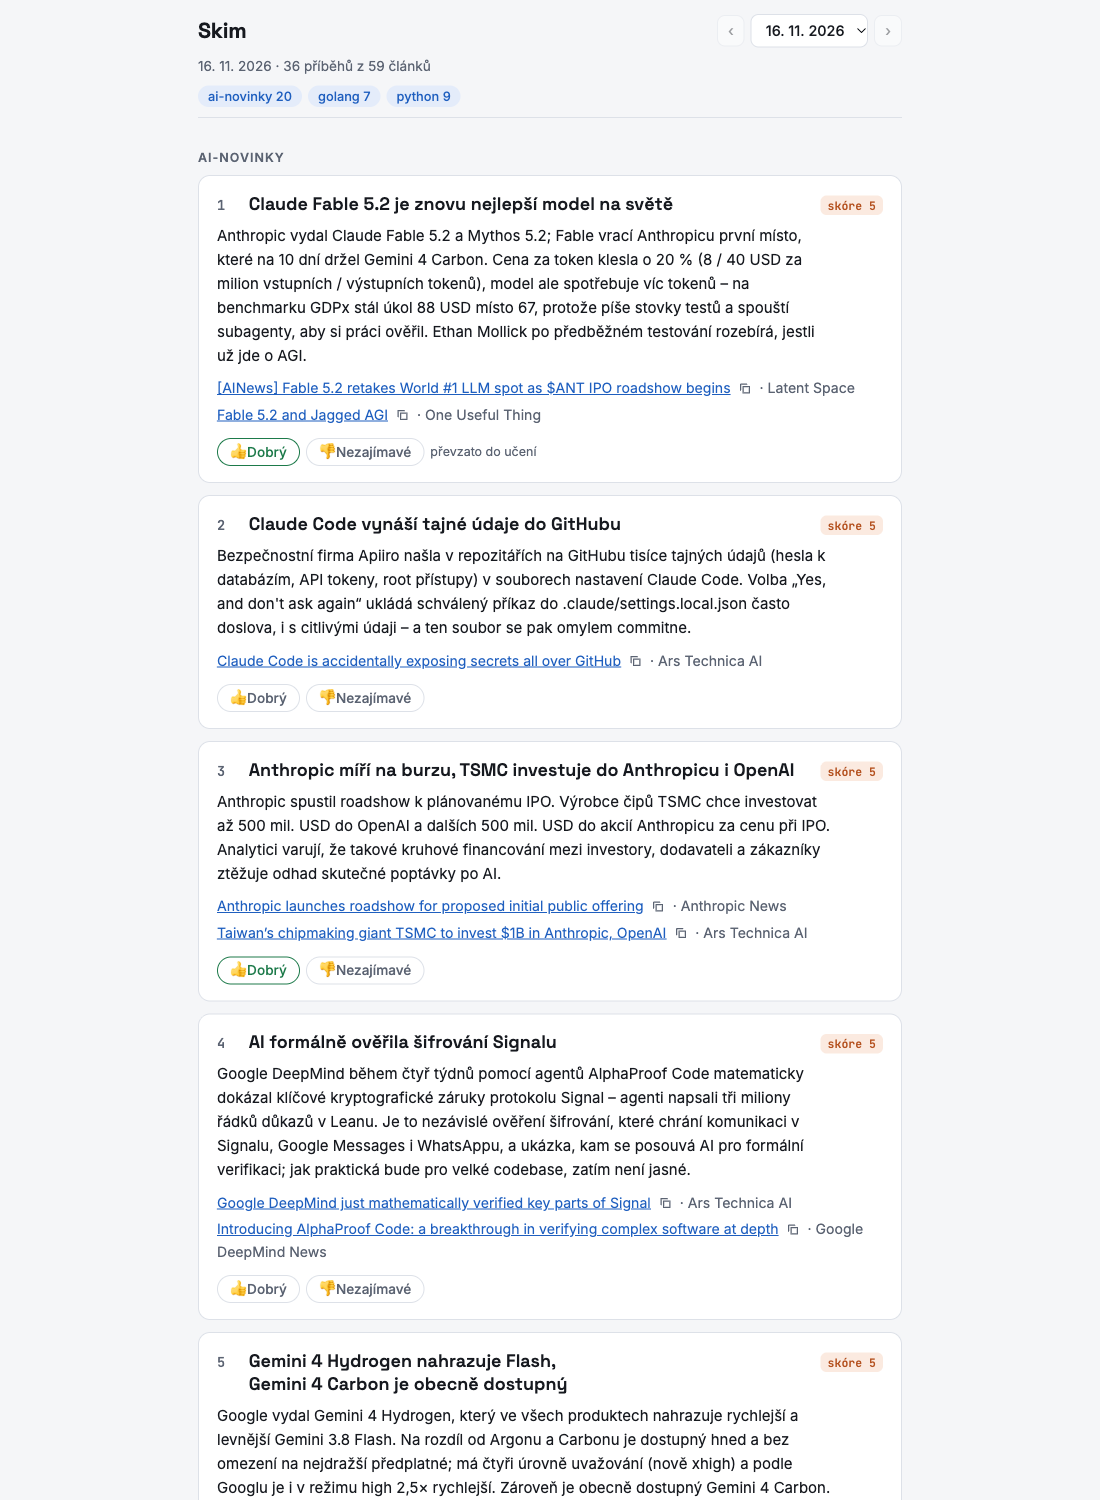
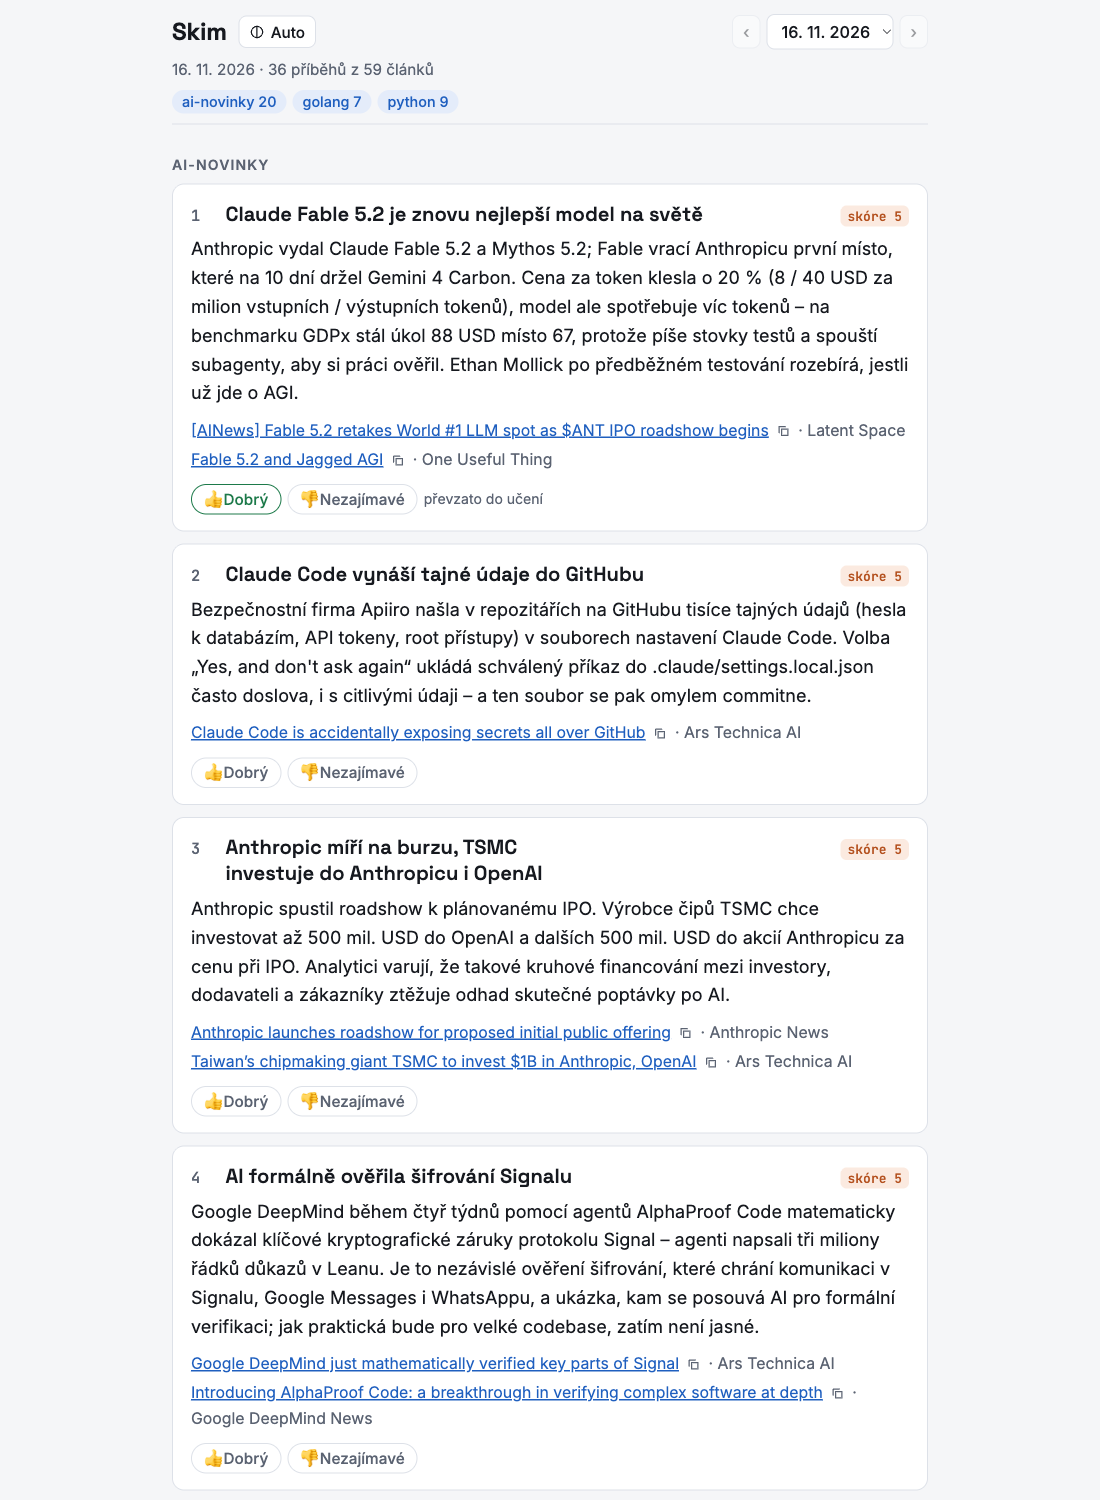
Digest page: larger type and a light/dark/auto theme switch
Base text 18px (was 15px), everything else scaled with it. The theme
button cycles Auto (device setting), Light and Dark and is remembered
per device. README screenshots refreshed.

Changed region(s): [[0.1545, 0.0, 0.8345, 1.0], [0.7109, 0.0, 0.8036, 0.0307], [0.7418, 0.4907, 0.8036, 0.5213]]

diff --git a/web/digest.html b/web/digest.html
@@ -32,14 +32,15 @@
   --up: #5cc78f; --down: #f0857c; color-scheme: dark;
 }
 * { box-sizing: border-box; }
+html { font-size: 18px; }
 body {
-  background: var(--bg); color: var(--fg); font: 15px/1.6 var(--font-body);
+  background: var(--bg); color: var(--fg); font: 1rem/1.6 var(--font-body);
   padding-left: max(16px, env(safe-area-inset-left, 0px));
   padding-right: max(16px, env(safe-area-inset-right, 0px));
   padding-block: 0 48px;
 }
 body::before { content: ""; position: fixed; inset: 0 0 auto; height: env(safe-area-inset-top, 0px); z-index: 10; background: var(--bg); }
-.wrap { max-width: 44rem; margin: 0 auto; }
+.wrap { max-width: 42rem; margin: 0 auto; }
 a { color: var(--accent); }
 a:focus-visible, button:focus-visible, select:focus-visible, summary:focus-visible { outline: 2px solid var(--accent); outline-offset: 2px; border-radius: 4px; }
 
@@ -55,6 +56,11 @@ a:focus-visible, button:focus-visible, select:focus-visible, summary:focus-visib
   border: 1px solid var(--line); border-radius: 8px; padding: 6px 10px; cursor: pointer;
 }
 .day button:disabled { opacity: 0.4; cursor: default; }
+.theme {
+  display: inline-flex; align-items: center; gap: 6px;
+  font: 500 0.85rem var(--font-body); color: var(--fg); background: var(--surface);
+  border: 1px solid var(--line); border-radius: 8px; padding: 6px 10px; cursor: pointer;
+}
 .meta { width: 100%; color: var(--muted); font-size: 0.85rem; }
 .topics { display: flex; flex-wrap: wrap; gap: 6px; width: 100%; }
 .topics a {
@@ -109,6 +115,7 @@ details.more li { overflow-wrap: anywhere; }
 <div class="wrap">
   <div class="bar">
     <h1 class="brand">Skim</h1>
+    <button type="button" class="theme" id="theme" aria-label="Přepnout vzhled"></button>
     <div class="day" id="day-nav" hidden>
       <button type="button" id="prev" aria-label="Starší den">‹</button>
       <select id="day-select" aria-label="Den digestu"></select>
@@ -166,6 +173,23 @@ details.more li { overflow-wrap: anywhere; }
     return s;
   }
   const COPY_ICON = ["M9 9h10v10H9z", "M5 15V5h10"];
+
+  // Theme: auto (follows the device) → light → dark; remembered per device.
+  const THEMES = [
+    { id: "auto", label: "Auto", icon: ["M12 3a9 9 0 1 0 0 18z", "M12 3a9 9 0 0 1 0 18"] },
+    { id: "light", label: "Světlý", icon: ["M12 8a4 4 0 1 0 0 8a4 4 0 1 0 0-8", "M12 2v2", "M12 20v2", "M4.9 4.9l1.4 1.4", "M17.7 17.7l1.4 1.4", "M2 12h2", "M20 12h2", "M4.9 19.1l1.4-1.4", "M17.7 6.3l1.4-1.4"] },
+    { id: "dark", label: "Tmavý", icon: ["M20 14.5A8 8 0 0 1 9.5 4a8 8 0 1 0 10.5 10.5z"] },
+  ];
+  let theme = "auto";
+  try { theme = localStorage.getItem("skim-theme") || "auto"; } catch {}
+  function applyTheme() {
+    const t = THEMES.find((x) => x.id === theme) || THEMES[0];
+    if (t.id === "auto") document.documentElement.removeAttribute("data-theme");
+    else document.documentElement.setAttribute("data-theme", t.id);
+    const b = document.getElementById("theme");
+    b.replaceChildren(icon(t.icon), document.createTextNode(t.label));
+    b.title = "Vzhled: " + t.label + " (klepnutím přepneš)";
+  }
   const DONE_ICON = ["M5 12l4 4L19 7"];
 
   // Copy button after a link; falls back to selecting the link text when
@@ -316,6 +340,13 @@ details.more li { overflow-wrap: anywhere; }
     window.scrollTo(0, 0);
   }
 
+  applyTheme();
+  $("theme").addEventListener("click", () => {
+    const i = THEMES.findIndex((x) => x.id === theme);
+    theme = THEMES[(i + 1) % THEMES.length].id;
+    try { localStorage.setItem("skim-theme", theme); } catch {}
+    applyTheme();
+  });
   $("prev").addEventListener("click", () => selectDay(idx + 1));
   $("next").addEventListener("click", () => selectDay(idx - 1));
   $("day-select").addEventListener("change", (e) => selectDay(days.findIndex((d) => d.day === e.target.value)));
